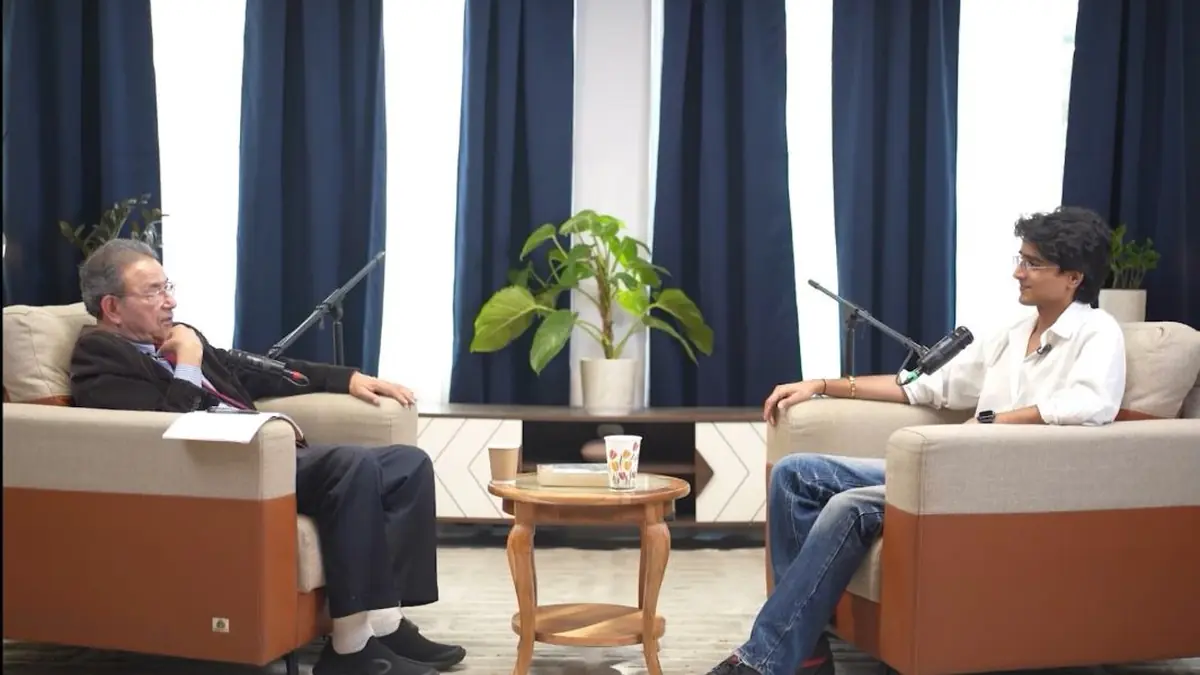
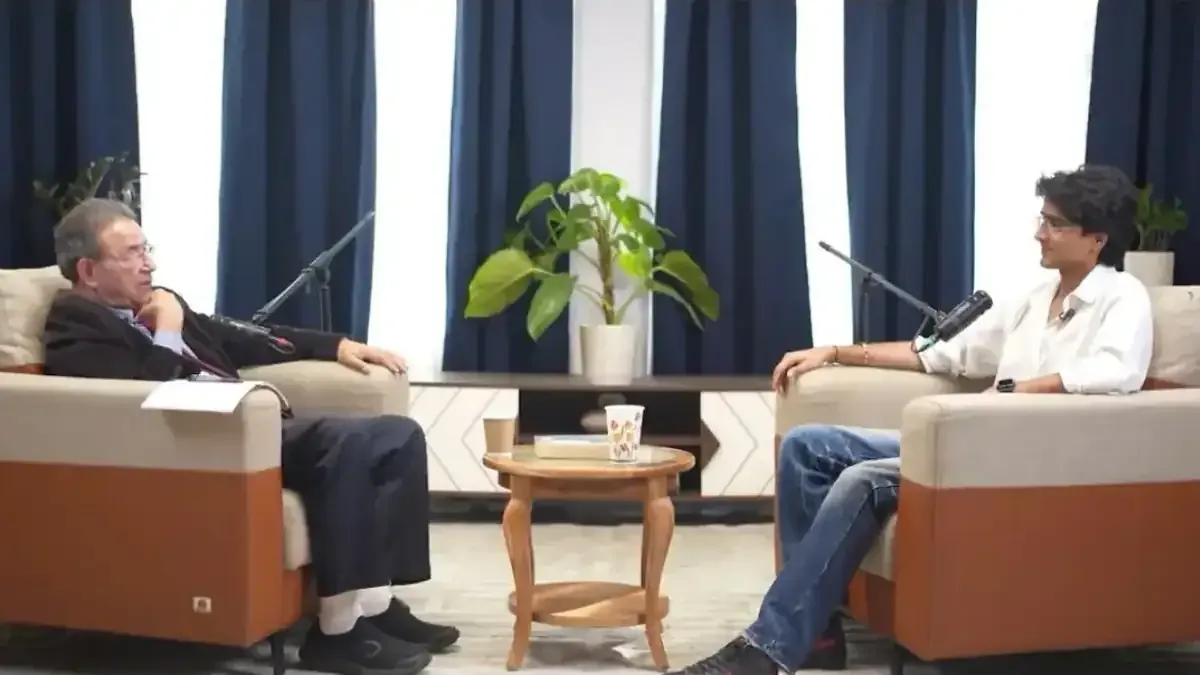
Videography: new landscape-only hero and card (podcast, studio interview, documentary stills, testimonials), no vertical reels

diff --git a/index.html b/index.html
@@ -2604,7 +2604,7 @@ CASES.photobook={"title": "Photography portfolio", "tag": "Fashion weeks, test s
 CASES['designing-happiness']={"title": "Designing Happiness", "link": ["Watch the film", "https://drive.google.com/drive/folders/1HUDaa_hplzb87bE85riKcMQJgDsVWbil?usp=sharing"], "tag": "After nearly losing his life in an accident, a successful architect gives up the chase for wealth to design something far more important: a calm, joyful mind.", "kicker": "The Architecture of Joy · Documentary, 21 min, 2026", "meta": [["Format", "Character-driven documentary, 21 min"], ["Sponsor", "JoyScore Inc."], ["Shot in", "New Delhi and Long Beach, California"], ["Director", "Aaryan Sharma, NID graduation film"], ["My role", "Cinematographer and creative collaborator: concept and story structure"]], "hero": {"img": "assets/doc/hero.webp", "h": 901, "alt": "Dr. J mid-sentence during the studio interview, gesturing with one hand beside a warm lamp", "label": "Designing Happiness: the full documentary", "href": "https://drive.google.com/drive/folders/1HUDaa_hplzb87bE85riKcMQJgDsVWbil?usp=sharing"}, "sections": [["Overview", ["Designing Happiness follows Dr. J, an architect, university educator and the founder of the wellbeing platform JoyScore, as he revisits the experiences that reshaped his idea of happiness.", "In a time of constant connection, hustle and burnout, the film asks a simple question: can inner peace and joy be understood, practised and designed into daily life?"]], ["The subject", ["Dr. J trained as an architect in Delhi and was shaped by conversations with the futurist Buckminster Fuller. He built a life around structure and ambition until a near-fatal motorcycle accident forced him to reorder everything.", "What came out of it was a philosophy and a system: the Mind-Body-Life triad, which turns mindfulness into simple 30-second daily habits, and a pledge to give 51% of his company to charities including Akshaya Patra, Precious Lamb and the Long Beach Rescue Mission."]], ["The approach", ["Instead of a birth-to-present biography, the film is built on five acts, organised by emotional turning points rather than dates. Every interview question and every planned shot was mapped to one of them before filming began.", "Dr. J is a practised public speaker with polished answers, so the questions were written to get past them: “If we remove all titles, achievements and roles, who is Dr. J at his core?” and “What if someone has only 8 hours left in their life?”"]], ["The shoot", ["In Delhi a small crew covered a night arrival at the airport, a quiet 4 AM walk for roadside chai, a long studio interview and podcast, and the first in-person reunion lunch with his India team after eight years of working remotely. The California chapter, with his home, koi pond and birds, was directed remotely.", "Three Sony cameras did different jobs: a handheld Alpha 6700 for verité moments, an Alpha 7C with fast primes for intimate portraits, and a locked-off Alpha 7 IV as the safe master angle, with wireless lavalier mics on every speaker."]], ["Edit and finish", ["A 30-minute assembly was cut down to a tight five-act film, letting go of nearly ten minutes of conversation that was fun but did not serve the story.", "The Delhi audio was cleaned gently to keep its street texture, while California got a calm soundscape of water and birds, with the score ducked under every spoken line. The grade matched three cameras, then gave Delhi warm, earthy dawn tones and California clean coastal blues and greens."]]], "featuresTitle": "The five-act spine", "features": [["I. The modern malady and the architect", "Everyday stress and disconnection, Dr. J’s childlike curiosity, his architecture years and meeting Buckminster Fuller."], ["II. The turning point and the 51% pledge", "The accident, waking up in hospital, and the decision to give 51% of JoyScore to charitable causes."], ["III. The return to Delhi", "Landing at the airport, “left with nothing, returned with everything”, and a quiet 4 AM walk for chai."], ["IV. The team", "The reunion lunch after eight remote years, the team’s stories, and the ideas behind the Mind-Body-Life triad."], ["V. The living sandbox", "His California sanctuary, the koi pond, his birds, and a closing thought on treating life as a gift."]], "extra": "<section class=\"case-boards\"><h2>Stills from the film</h2><p>Two chapters of the same story: warm Delhi mornings and a calm California home.</p><div class=\"case-pages\"><figure><img src=\"assets/doc/still-beach.webp\" width=\"1200\" height=\"677\" alt=\"Dr. J in a white shirt on the Long Beach shoreline at golden hour\" loading=\"lazy\" decoding=\"async\"></figure><figure><img src=\"assets/doc/still-window.webp\" width=\"1200\" height=\"675\" alt=\"Dr. J seen from behind at a hotel window looking out over Delhi at dawn\" loading=\"lazy\" decoding=\"async\"></figure><figure><img src=\"assets/doc/still-koi.webp\" width=\"1200\" height=\"677\" alt=\"A pale stone in Dr. J’s koi pond with fish circling it\" loading=\"lazy\" decoding=\"async\"></figure><figure><img src=\"assets/doc/still-garden.webp\" width=\"1200\" height=\"676\" alt=\"Dr. J among tropical plants in his California garden\" loading=\"lazy\" decoding=\"async\"></figure><figure><img src=\"assets/doc/still-studio.webp\" width=\"1200\" height=\"674\" alt=\"Wide shot of the studio interview set in Delhi, with a warm lamp and shelves\" loading=\"lazy\" decoding=\"async\"></figure><figure><img src=\"assets/doc/still-study.webp\" width=\"1200\" height=\"678\" alt=\"Dr. J looking down, deep in thought, at home\" loading=\"lazy\" decoding=\"async\"></figure><figure><img src=\"assets/doc/still-patio.webp\" width=\"1200\" height=\"676\" alt=\"Dr. J writing at a patio table under an umbrella\" loading=\"lazy\" decoding=\"async\"></figure><figure><img src=\"assets/doc/still-slippers.webp\" width=\"1200\" height=\"677\" alt=\"Bare feet stepping into white hotel slippers on a wooden floor\" loading=\"lazy\" decoding=\"async\"></figure></div></section><section class=\"case-boards\"><h2>Behind the scenes</h2><p>Four days in Delhi with a small crew, three cameras and a very early alarm.</p><div class=\"case-pages\"><figure><img src=\"assets/doc/bts-reunion.webp\" width=\"1200\" height=\"848\" alt=\"Dr. J cutting a cake with the JoyScore India team at the reunion lunch\" loading=\"lazy\" decoding=\"async\"><figcaption>The first in-person lunch with the India team in eight years</figcaption></figure><figure><img src=\"assets/doc/bts-team.webp\" width=\"1200\" height=\"801\" alt=\"Dr. J with the whole JoyScore India team, posing for a group photo\" loading=\"lazy\" decoding=\"async\"><figcaption>The JoyScore India team</figcaption></figure><figure><img src=\"assets/doc/bts-twocam.webp\" width=\"1200\" height=\"848\" alt=\"Two-camera studio setup for the sit-down interview\" loading=\"lazy\" decoding=\"async\"><figcaption>The studio interview, set up for two cameras</figcaption></figure><figure><img src=\"assets/doc/bts-lav.webp\" width=\"1200\" height=\"848\" alt=\"Fitting a lavalier microphone on Dr. J before a take\" loading=\"lazy\" decoding=\"async\"><figcaption>Mic check before the deep-dive interview</figcaption></figure><figure><img src=\"assets/doc/bts-follow.webp\" width=\"1200\" height=\"847\" alt=\"Filming Dr. J handheld as he walks through a doorway\" loading=\"lazy\" decoding=\"async\"><figcaption>Following Dr. J handheld, verité style</figcaption></figure><figure><img src=\"assets/doc/bts-lunch.webp\" width=\"1200\" height=\"752\" alt=\"The team around the restaurant table during the reunion lunch\" loading=\"lazy\" decoding=\"async\"><figcaption>Reunion lunch, Delhi</figcaption></figure></div></section>"}; /* project 9: documentary */
 CASES.visual={"title": "Visual design compilation", "tag": "Ads, social campaigns, emailers, watchfaces, branding, print and illustration, gathered in one place.", "kicker": "Visual communication: campaigns, branding, print and illustration", "meta": [["Project", "Visual design compilation"], ["Category", "Visual communication"], ["Genres", "Ads, social media, emailers, watchfaces, branding, print, illustration"], ["Designer", "Siya Giriwar"]], "hero":{"img":"assets/visual/hero-anim.webp","still":"assets/visual/hero-still.webp","h":920,"alt":"Slideshow of the compilation’s work: Spectrum festival posters, Bloom crochet branding, the La Mondé tabloid, a botanical tote bag print, Bean To Brew coffee branding and Rad’s Food Corner branding"}, "sections": [["Overview", ["A compilation of visual design across ads, social media, email, watchfaces, branding, print and illustration. It brings together campaign work for Layers.shop, a travel company and a 3D fashion course, alongside brand identities, printed pieces and illustrated storytelling.", "The pages run in order by theme, so you can scroll from smartwatch ads and emailers through travel and course campaigns, into the Phad storybook, brand identities, print design and posters."]], ["Working across formats", ["Each body of work has its own voice. Layers is bold and electric blue, the travel posts are warm and photographic, and the print and branding pieces lean on pattern, type and texture. The aim in every case is a clear idea, a strong first read and a system that holds across many pieces."]]], "featuresTitle": "What is inside", "features": [["Layers.shop", "Social posts and campaigns, smartwatch ads, emailers, story thumbnails, email signatures, app nudges and watchfaces."], ["Travdor Journeys", "A social media series for a travel company: bucket-list posts, destination guides and itinerary carousels."], ["Learn 3D Fashion", "Ads and layouts for a 3D fashion and AI design course, plus brand-building and passive-income campaigns."], ["Phad storybook", "A Phad painting storybook publication: the folk-art scroll, framed scenes and the book layout."], ["Branding", "BRCH Brioche Sandos, Rad’s Food Corner, Bean To Brew, Bloom, Techeonn and a Yonex logo redesign."], ["Print and posters", "Banners for NIFT at Dilli Haat, wedding save-the-dates, a tabloid spread, typographic and event posters, scarves and tote prints."]], "boardsTitle": "The full compilation", "boardsSub": "Forty-eight pages, from Layers ads to branding, print and posters.", "boards": [["assets/visual/vc-02.webp", 900, "Layers.shop Instagram profile with story highlights and a grid of posts"], ["assets/visual/vc-03.webp", 900, "Ten blue, black and white social posts for the Bold Quests series, with portrait cards and bold typography"], ["assets/visual/vc-04.webp", 900, "Women of Layers series: team portraits with short quotes on blue and white post templates"], ["assets/visual/vc-05.webp", 900, "Photo-collage posts celebrating the Layers team, with torn-paper frames and handwritten captions"], ["assets/visual/vc-06.webp", 900, "Wrapped 2025 and Agent of Chaos posts in electric blue, including a chat-style 8pm to 12am post"], ["assets/visual/vc-07.webp", 900, "Eight Anarc smartwatch ads in four layouts, each with a ₹3999 offer on white, blue and purple backgrounds"], ["assets/visual/vc-08.webp", 900, "A second set of Anarc smartwatch ads in square and portrait formats with price callouts"], ["assets/visual/vc-09.webp", 900, "Dark Anarc smartwatch ads with the lines Never, Now and The moment you wear it"], ["assets/visual/vc-10.webp", 900, "Dark New Year offer ads for the smartwatch with 50% off and free strap callouts"], ["assets/visual/vc-11.webp", 900, "Four long-form emailers announcing a bold sale, with a watch hero, comparison table and call to action"], ["assets/visual/vc-12.webp", 900, "Six dark blue thumbnails reading Welcome to Making Tech Fun Again"], ["assets/visual/vc-13.webp", 900, "A grid of colourful smartwatch watchfaces next to always-on display versions"], ["assets/visual/vc-14.webp", 900, "More smartwatch watchfaces in purple, neon and gradient styles"], ["assets/visual/vc-15.webp", 900, "Email signatures in light and dark, and two app nudges offering a complimentary gift"], ["assets/visual/vc-16.webp", 900, "Four smartwatch feature banners: Your vibe, Your face; track every hour clearly; ask, speak, know; and every detail"], ["assets/visual/vc-17.webp", 900, "Travdor Journeys Instagram profile with highlights for Thailand, Dubai, Malaysia and Sri Lanka"], ["assets/visual/vc-18.webp", 900, "Travel social posts with yellow headlines on torn-paper and photo backgrounds, including bucket-list and short-trip guides"], ["assets/visual/vc-19.webp", 900, "Teal travel carousels with destination photos, trip tips and itinerary steps"], ["assets/visual/vc-20.webp", 900, "Travel posts about packing and Sri Lanka, with bold yellow type over destination photography"], ["assets/visual/vc-21.webp", 900, "Night-sky and jungle travel carousels numbered 01 to 04 in dark teal and gold"], ["assets/visual/vc-22.webp", 900, "Learn 3D Fashion website hero: Master 3D Fashion and AI Design, 2026"], ["assets/visual/vc-23.webp", 900, "Four Learn 3D Fashion course ads in black, white and blue"], ["assets/visual/vc-24.webp", 900, "Build Your Brand ad series with bold type on terracotta, black and cream"], ["assets/visual/vc-25.webp", 900, "More Build Your Brand ads in orange, blue and lilac colour blocks"], ["assets/visual/vc-26.webp", 900, "Learn 3D Fashion ad layouts with editorial photography"], ["assets/visual/vc-27.webp", 900, "Turn your expertise into passive income: three cream and terracotta ads"], ["assets/visual/vc-28.webp", 900, "A long Phad painting scroll showing a folktale across many framed scenes"], ["assets/visual/vc-29.webp", 900, "Framed scenes from the Phad painting storybook, with royal courts and trees"], ["assets/visual/vc-30.webp", 900, "More Phad scenes arranged into a storybook layout with a long panoramic spread"], ["assets/visual/vc-31.webp", 900, "Illustration of warrior characters against an orange swirl background"], ["assets/visual/vc-32.webp", 900, "Fashion research and a flats-and-fabric board with garments on a yellow ground"], ["assets/visual/vc-33.webp", 900, "BRCH Brioche Sandos branding: logo variations, colour palette and paper bag packaging"], ["assets/visual/vc-34.webp", 900, "BRCH packaging dielines, pattern and a pair of mascot illustrations"], ["assets/visual/vc-35.webp", 900, "Rad's Food Corner branding: logos, patterns, menus and takeaway packaging"], ["assets/visual/vc-36.webp", 900, "Bean To Brew coffee shop branding: logo, palette, type pairing and cup and coaster mockups"], ["assets/visual/vc-37.webp", 900, "Five illustrated fashion looks in green and white on a dark green background"], ["assets/visual/vc-38.webp", 900, "Starborn collection board: moodboard, illustrated scene and flats"], ["assets/visual/vc-39.webp", 900, "Starborn scarf pattern, illustrated looks and supporting print details"], ["assets/visual/vc-40.webp", 900, "Print design: printed scarves, patterned fabric swatches and a cap"], ["assets/visual/vc-41.webp", 900, "Print design: a botanical pattern in blue and orange on a tote bag and cushions"], ["assets/visual/vc-42.webp", 900, "Banners for NIFT at Dilli Haat in red and cream with a repeating motif"], ["assets/visual/vc-43.webp", 900, "Save-the-date wedding invite with orange floral illustration, envelope and phone mockup"], ["assets/visual/vc-44.webp", 900, "La Mondé tabloid newspaper design with a Rockabilly Rumble cover"], ["assets/visual/vc-45.webp", 900, "Univers typography poster in black and cream with a large letter S and alphabet"], ["assets/visual/vc-46.webp", 900, "Bloom crochet branding: logo, tags, packaging and tote bag in green and orange"], ["assets/visual/vc-47.webp", 900, "Yonex logo redesign with a badminton player, apparel and packaging mockups"], ["assets/visual/vc-48.webp", 900, "Techeonn tech brand logo on cards, signage and a dark merchandise shot"], ["assets/visual/vc-49.webp", 900, "Event posters in orange and teal for chess, a photo exhibition, pixel art, bangarang and a hackathon"]]};
 /* case study for project 12 (videography) */
-CASES.videography={"title": "Videography", "tag": "Reels, podcasts, interviews and documentaries for brands and film school, with a link to watch each one.", "kicker": "Lens and motion: reels, podcasts, interviews and documentaries", "meta": [["Project", "Videography reel"], ["Category", "Lens and motion"], ["Formats", "Podcast, interview, testimonials, reels, documentary, mockumentary"], ["For", "JoyScore, Two Forking Good × Draavin Canteen, Layers, Play Haus, NIFT New Delhi"]], "hero": {"img": "assets/videography/hero.webp", "still": "assets/videography/hero-still.webp", "h": 900, "alt": "Showreel of stills: the JoyScore podcast and interview, an Onam reel with Chef Ruchira Hoon, and the Haute Couture documentary and teaser"}, "sections": [["Overview", ["A reel of videography across brands, a podcast studio and film school. Podcast and interview coverage with Dr. Joy for JoyScore, an Onam story with Chef Ruchira Hoon for Two Forking Good × Draavin Canteen, a brand video for Layers, sports reels for Play Haus, and two films made at NIFT New Delhi.", "The pages below show the work and the before-and-after colour grades for the JoyScore interviews. The Haute Couture documentary and teaser and the Onam reel play right here, and every film, reel and post is linked under Watch and follow, so you can see each piece the way it was published."]]], "featuresTitle": "What is inside", "features": [["JoyScore", "A podcast conversation with Dr. Joy hosted by Prateek, a teaser, an interview shot in a second studio setup, employee testimonials and short reels."], ["Two Forking Good × Draavin Canteen", "Icons of Onam with Chef Ruchira Hoon, plus photos and video from the Onam Sadhya table at Draavin Canteen."], ["Layers", "A brand video for the Anarc smartwatch redesign in the colours of the year."], ["Play Haus", "Short reels for a Delhi sporting club with pickleball, turf and a gel blaster arena."], ["Haute Couture", "A documentary on fashion design at NIFT New Delhi, following students and faculty through the studio. Edited by Siya, with art direction by Siya and Aastha Deep."], ["The Mango Heist", "A mockumentary directed, shot and animated by Siya, with the script and sound by Siya and Aastha Deep."]], "extra": "<section class=\"case-sec\"><h2>Watch here</h2><div class=\"vfilms\"><figure class=\"vfilm wide\"><video controls playsinline preload=\"none\" poster=\"assets/videography/poster-hc.webp\" width=\"1280\" height=\"720\" aria-label=\"Haute Couture, documentary\"><source src=\"assets/videography/haute-couture.mp4\" type=\"video/mp4\"></video><figcaption><b>Haute Couture, documentary</b><span>5 min 30 s · NIFT New Delhi</span></figcaption></figure><figure class=\"vfilm\"><video controls playsinline preload=\"none\" poster=\"assets/videography/poster-teaser.webp\" width=\"1280\" height=\"720\" aria-label=\"Haute Couture, teaser\"><source src=\"assets/videography/teaser.mp4\" type=\"video/mp4\"></video><figcaption><b>Haute Couture, teaser</b><span>41 s</span></figcaption></figure><figure class=\"vfilm tall\"><video controls playsinline preload=\"none\" poster=\"assets/videography/poster-onam.webp\" width=\"720\" height=\"1280\" aria-label=\"Icons of Onam with Chef Ruchira Hoon\"><source src=\"assets/videography/onam-reel.mp4\" type=\"video/mp4\"></video><figcaption><b>Icons of Onam with Chef Ruchira Hoon</b><span>1 min · Two Forking Good × Draavin Canteen</span></figcaption></figure></div></section><section class=\"case-sec\"><h2>Watch and follow</h2><div class=\"vgroups\"><div class=\"vgroup\"><h3>JoyScore</h3><p class=\"vsub\">Podcast and interview with Dr. Joy, hosted by Prateek</p><div class=\"tracks\"><a class=\"track\" href=\"https://www.youtube.com/watch?v=KiM6xgwTIks&amp;list=PLVLEOZYPl-iuAG-uZPvXb_NonUPldaBll&amp;index=8\" target=\"_blank\" rel=\"noopener noreferrer\" aria-label=\"Podcast with Dr. Joy, YouTube (opens in a new tab)\"><span class=\"tk-ico\" aria-hidden=\"true\"><svg viewBox=\"0 0 16 16\"><path d=\"M3 1.5v13l11-6.5z\" fill=\"currentColor\"/></svg></span><span class=\"tk-txt\"><b>Podcast with Dr. Joy</b><small>YouTube</small></span><span class=\"tk-go\" aria-hidden=\"true\">↗</span></a><a class=\"track\" href=\"https://www.youtube.com/watch?v=lITsF-huEsA&amp;list=PLVLEOZYPl-iuAG-uZPvXb_NonUPldaBll&amp;index=9\" target=\"_blank\" rel=\"noopener noreferrer\" aria-label=\"Podcast teaser, YouTube (opens in a new tab)\"><span class=\"tk-ico\" aria-hidden=\"true\"><svg viewBox=\"0 0 16 16\"><path d=\"M3 1.5v13l11-6.5z\" fill=\"currentColor\"/></svg></span><span class=\"tk-txt\"><b>Podcast teaser</b><small>YouTube</small></span><span class=\"tk-go\" aria-hidden=\"true\">↗</span></a><a class=\"track\" href=\"https://drive.google.com/drive/folders/1DxY7gXc6x68NRU-7Uiy8ae6LzuVBo9ZE\" target=\"_blank\" rel=\"noopener noreferrer\" aria-label=\"Interview with Dr. J, Google Drive folder (opens in a new tab)\"><span class=\"tk-ico\" aria-hidden=\"true\"><svg viewBox=\"0 0 16 16\"><path d=\"M3 1.5v13l11-6.5z\" fill=\"currentColor\"/></svg></span><span class=\"tk-txt\"><b>Interview with Dr. J</b><small>Google Drive folder</small></span><span class=\"tk-go\" aria-hidden=\"true\">↗</span></a><a class=\"track\" href=\"https://www.instagram.com/p/DadLQvpBiWl/\" target=\"_blank\" rel=\"noopener noreferrer\" aria-label=\"JoyScore reel 1, Instagram reel (opens in a new tab)\"><span class=\"tk-ico\" aria-hidden=\"true\"><svg viewBox=\"0 0 16 16\"><path d=\"M3 1.5v13l11-6.5z\" fill=\"currentColor\"/></svg></span><span class=\"tk-txt\"><b>JoyScore reel 1</b><small>Instagram reel</small></span><span class=\"tk-go\" aria-hidden=\"true\">↗</span></a><a class=\"track\" href=\"https://www.instagram.com/p/DZq8-Frklqu/\" target=\"_blank\" rel=\"noopener noreferrer\" aria-label=\"JoyScore reel 2, Instagram reel (opens in a new tab)\"><span class=\"tk-ico\" aria-hidden=\"true\"><svg viewBox=\"0 0 16 16\"><path d=\"M3 1.5v13l11-6.5z\" fill=\"currentColor\"/></svg></span><span class=\"tk-txt\"><b>JoyScore reel 2</b><small>Instagram reel</small></span><span class=\"tk-go\" aria-hidden=\"true\">↗</span></a><a class=\"track\" href=\"https://www.instagram.com/p/DaReBfwDxNA/\" target=\"_blank\" rel=\"noopener noreferrer\" aria-label=\"JoyScore reel 3, Instagram reel (opens in a new tab)\"><span class=\"tk-ico\" aria-hidden=\"true\"><svg viewBox=\"0 0 16 16\"><path d=\"M3 1.5v13l11-6.5z\" fill=\"currentColor\"/></svg></span><span class=\"tk-txt\"><b>JoyScore reel 3</b><small>Instagram reel</small></span><span class=\"tk-go\" aria-hidden=\"true\">↗</span></a><a class=\"track\" href=\"https://www.instagram.com/patrickposts_here/\" target=\"_blank\" rel=\"noopener noreferrer\" aria-label=\"Host: Prateek, Instagram · @patrickposts_here (opens in a new tab)\"><span class=\"tk-ico\" aria-hidden=\"true\"><svg viewBox=\"0 0 16 16\"><path d=\"M3 1.5v13l11-6.5z\" fill=\"currentColor\"/></svg></span><span class=\"tk-txt\"><b>Host: Prateek</b><small>Instagram · @patrickposts_here</small></span><span class=\"tk-go\" aria-hidden=\"true\">↗</span></a><a class=\"track\" href=\"https://www.instagram.com/dr.joy_official/\" target=\"_blank\" rel=\"noopener noreferrer\" aria-label=\"Speaker: Dr. Joy, Instagram · @dr.joy_official (opens in a new tab)\"><span class=\"tk-ico\" aria-hidden=\"true\"><svg viewBox=\"0 0 16 16\"><path d=\"M3 1.5v13l11-6.5z\" fill=\"currentColor\"/></svg></span><span class=\"tk-txt\"><b>Speaker: Dr. Joy</b><small>Instagram · @dr.joy_official</small></span><span class=\"tk-go\" aria-hidden=\"true\">↗</span></a></div></div><div class=\"vgroup\"><h3>Two Forking Good × Draavin Canteen</h3><p class=\"vsub\">Icons of Onam and the Onam Sadhya</p><div class=\"tracks\"><a class=\"track\" href=\"https://www.instagram.com/p/Dcfq7ZPzVan/\" target=\"_blank\" rel=\"noopener noreferrer\" aria-label=\"Chef Ruchira Hoon, Instagram reel (opens in a new tab)\"><span class=\"tk-ico\" aria-hidden=\"true\"><svg viewBox=\"0 0 16 16\"><path d=\"M3 1.5v13l11-6.5z\" fill=\"currentColor\"/></svg></span><span class=\"tk-txt\"><b>Chef Ruchira Hoon</b><small>Instagram reel</small></span><span class=\"tk-go\" aria-hidden=\"true\">↗</span></a><a class=\"track\" href=\"https://www.instagram.com/p/DcdQBZAjixl/?img_index=1\" target=\"_blank\" rel=\"noopener noreferrer\" aria-label=\"Onam post, Instagram carousel (opens in a new tab)\"><span class=\"tk-ico\" aria-hidden=\"true\"><svg viewBox=\"0 0 16 16\"><path d=\"M3 1.5v13l11-6.5z\" fill=\"currentColor\"/></svg></span><span class=\"tk-txt\"><b>Onam post</b><small>Instagram carousel</small></span><span class=\"tk-go\" aria-hidden=\"true\">↗</span></a></div></div><div class=\"vgroup\"><h3>Layers</h3><p class=\"vsub\">Brand video for the Anarc smartwatch redesign</p><div class=\"tracks\"><a class=\"track\" href=\"https://www.instagram.com/p/DTsrZhAk76U/\" target=\"_blank\" rel=\"noopener noreferrer\" aria-label=\"Layers shoot, Instagram reel (opens in a new tab)\"><span class=\"tk-ico\" aria-hidden=\"true\"><svg viewBox=\"0 0 16 16\"><path d=\"M3 1.5v13l11-6.5z\" fill=\"currentColor\"/></svg></span><span class=\"tk-txt\"><b>Layers shoot</b><small>Instagram reel</small></span><span class=\"tk-go\" aria-hidden=\"true\">↗</span></a></div></div><div class=\"vgroup\"><h3>Play Haus</h3><p class=\"vsub\">Reels for a Delhi sporting club</p><div class=\"tracks\"><a class=\"track\" href=\"https://www.instagram.com/p/DVnqTsOgWn4/\" target=\"_blank\" rel=\"noopener noreferrer\" aria-label=\"Play Haus reel 1, Instagram reel (opens in a new tab)\"><span class=\"tk-ico\" aria-hidden=\"true\"><svg viewBox=\"0 0 16 16\"><path d=\"M3 1.5v13l11-6.5z\" fill=\"currentColor\"/></svg></span><span class=\"tk-txt\"><b>Play Haus reel 1</b><small>Instagram reel</small></span><span class=\"tk-go\" aria-hidden=\"true\">↗</span></a><a class=\"track\" href=\"https://www.instagram.com/p/DU2cAlxkSEF/\" target=\"_blank\" rel=\"noopener noreferrer\" aria-label=\"Play Haus reel 2, Instagram reel (opens in a new tab)\"><span class=\"tk-ico\" aria-hidden=\"true\"><svg viewBox=\"0 0 16 16\"><path d=\"M3 1.5v13l11-6.5z\" fill=\"currentColor\"/></svg></span><span class=\"tk-txt\"><b>Play Haus reel 2</b><small>Instagram reel</small></span><span class=\"tk-go\" aria-hidden=\"true\">↗</span></a></div></div><div class=\"vgroup\"><h3>College projects</h3><p class=\"vsub\">NIFT New Delhi</p><div class=\"tracks\"><a class=\"track\" href=\"https://drive.google.com/drive/folders/1gimLoRdNh8Y0HIjJt5tAYYkg_PoABn8S\" target=\"_blank\" rel=\"noopener noreferrer\" aria-label=\"Haute Couture, documentary, Google Drive folder (opens in a new tab)\"><span class=\"tk-ico\" aria-hidden=\"true\"><svg viewBox=\"0 0 16 16\"><path d=\"M3 1.5v13l11-6.5z\" fill=\"currentColor\"/></svg></span><span class=\"tk-txt\"><b>Haute Couture, documentary</b><small>Google Drive folder</small></span><span class=\"tk-go\" aria-hidden=\"true\">↗</span></a><a class=\"track\" href=\"https://www.behance.net/gallery/224786475/THE-MANGO-HEIST-Mockumentary\" target=\"_blank\" rel=\"noopener noreferrer\" aria-label=\"The Mango Heist, mockumentary, Behance case study (opens in a new tab)\"><span class=\"tk-ico\" aria-hidden=\"true\"><svg viewBox=\"0 0 16 16\"><path d=\"M3 1.5v13l11-6.5z\" fill=\"currentColor\"/></svg></span><span class=\"tk-txt\"><b>The Mango Heist, mockumentary</b><small>Behance case study</small></span><span class=\"tk-go\" aria-hidden=\"true\">↗</span></a></div></div></div></section>", "boardsTitle": "The reel, page by page", "boardsSub": "Twenty-two pages: podcast and interview stills, colour grades, Onam, brand reels and the college films.", "boards": [["assets/videography/vg-01.webp", 900, "JoyScore Instagram profile, the client for the podcast, interview and reels"], ["assets/videography/vg-02.webp", 900, "Page of links to the JoyScore reels, interview, teaser and podcast, with the host Prateek and the speaker Dr. Joy"], ["assets/videography/vg-03.webp", 900, "Podcast set with Dr. Joy and the host seated in armchairs facing each other, microphones in front and a plant between them"], ["assets/videography/vg-04.webp", 900, "Dr. J interviewed in a second studio setup, with a warm lamp, shelves and plants"], ["assets/videography/vg-05.webp", 900, "Four employee testimonials of JoyScore staff, each shot outdoors in a park"], ["assets/videography/vg-06.webp", 900, "Colour grade comparison of the Dr. Joy interviews in two studio setups, ungraded on the left and graded on the right"], ["assets/videography/vg-07.webp", 900, "Colour grade comparison of outdoor interview frames, ungraded on the left and graded on the right"], ["assets/videography/vg-08.webp", 900, "Colour grade comparison of a testimonial with a name title and a close portrait by a window, before and after"], ["assets/videography/vg-09.webp", 900, "Two Forking Good Instagram profile, the client for the Onam content"], ["assets/videography/vg-10.webp", 900, "Chef Ruchira Hoon interview reel and the Icons of Onam posts with Draavin Canteen and Two Forking Good branding"], ["assets/videography/vg-11.webp", 900, "Onam Sadhya carousels: Banana Leaves and Vegetables, chopped fresh for the Sadhya"], ["assets/videography/vg-12.webp", 900, "Four Onam photographs: menu cards on banana leaves, serving pots and a laid Sadhya table"], ["assets/videography/vg-13.webp", 900, "Four Onam detail photographs: a name card, jasmine garlands and flower rangoli"], ["assets/videography/vg-14.webp", 900, "A Sadhya table in use, jasmine in a steel bowl and a Draavin Canteen uniform detail"], ["assets/videography/vg-15.webp", 900, "Layers Instagram profile, the client for the brand video"], ["assets/videography/vg-16.webp", 900, "Layers shoot reel: We Redesigned ANARC in the Colors of the Year"], ["assets/videography/vg-17.webp", 900, "Play Haus sporting club Instagram profile, the client for the sports reels"], ["assets/videography/vg-18.webp", 900, "Two Play Haus reels shot on the turf"], ["assets/videography/vg-19.webp", 900, "NIFT New Delhi Instagram profile, for the college projects"], ["assets/videography/vg-20.webp", 900, "Haute Couture documentary stills: students at sewing machines, interviews with students and faculty, and close shots"], ["assets/videography/vg-21.webp", 900, "Haute Couture b-roll: stitching, sewing machine detail, mannequins, sketching on a tablet, tape measures and pattern making"], ["assets/videography/vg-22.webp", 900, "The Mango Heist mockumentary stills and end credits"]], "link": ["Watch the podcast", "https://www.youtube.com/watch?v=KiM6xgwTIks&list=PLVLEOZYPl-iuAG-uZPvXb_NonUPldaBll&index=8"], "barLink": "Watch the podcast"};
+CASES.videography={"title": "Videography", "tag": "Reels, podcasts, interviews and documentaries for brands and film school, with a link to watch each one.", "kicker": "Lens and motion: reels, podcasts, interviews and documentaries", "meta": [["Project", "Videography reel"], ["Category", "Lens and motion"], ["Formats", "Podcast, interview, testimonials, reels, documentary, mockumentary"], ["For", "JoyScore, Two Forking Good × Draavin Canteen, Layers, Play Haus, NIFT New Delhi"]], "hero": {"img": "assets/videography/hero.webp", "still": "assets/videography/hero-still.webp", "h": 900, "alt": "Slideshow of landscape frames: the JoyScore podcast set, Dr. J’s studio interview, the Designing Happiness documentary on the beach, at a window and in the garden, and employee testimonials"}, "sections": [["Overview", ["A reel of videography across brands, a podcast studio and film school. Podcast and interview coverage with Dr. Joy for JoyScore, an Onam story with Chef Ruchira Hoon for Two Forking Good × Draavin Canteen, a brand video for Layers, sports reels for Play Haus, and two films made at NIFT New Delhi.", "The pages below show the work and the before-and-after colour grades for the JoyScore interviews. The Haute Couture documentary and teaser and the Onam reel play right here, and every film, reel and post is linked under Watch and follow, so you can see each piece the way it was published."]]], "featuresTitle": "What is inside", "features": [["JoyScore", "A podcast conversation with Dr. Joy hosted by Prateek, a teaser, an interview shot in a second studio setup, employee testimonials and short reels."], ["Two Forking Good × Draavin Canteen", "Icons of Onam with Chef Ruchira Hoon, plus photos and video from the Onam Sadhya table at Draavin Canteen."], ["Layers", "A brand video for the Anarc smartwatch redesign in the colours of the year."], ["Play Haus", "Short reels for a Delhi sporting club with pickleball, turf and a gel blaster arena."], ["Haute Couture", "A documentary on fashion design at NIFT New Delhi, following students and faculty through the studio. Edited by Siya, with art direction by Siya and Aastha Deep."], ["The Mango Heist", "A mockumentary directed, shot and animated by Siya, with the script and sound by Siya and Aastha Deep."]], "extra": "<section class=\"case-sec\"><h2>Watch here</h2><div class=\"vfilms\"><figure class=\"vfilm wide\"><video controls playsinline preload=\"none\" poster=\"assets/videography/poster-hc.webp\" width=\"1280\" height=\"720\" aria-label=\"Haute Couture, documentary\"><source src=\"assets/videography/haute-couture.mp4\" type=\"video/mp4\"></video><figcaption><b>Haute Couture, documentary</b><span>5 min 30 s · NIFT New Delhi</span></figcaption></figure><figure class=\"vfilm\"><video controls playsinline preload=\"none\" poster=\"assets/videography/poster-teaser.webp\" width=\"1280\" height=\"720\" aria-label=\"Haute Couture, teaser\"><source src=\"assets/videography/teaser.mp4\" type=\"video/mp4\"></video><figcaption><b>Haute Couture, teaser</b><span>41 s</span></figcaption></figure><figure class=\"vfilm tall\"><video controls playsinline preload=\"none\" poster=\"assets/videography/poster-onam.webp\" width=\"720\" height=\"1280\" aria-label=\"Icons of Onam with Chef Ruchira Hoon\"><source src=\"assets/videography/onam-reel.mp4\" type=\"video/mp4\"></video><figcaption><b>Icons of Onam with Chef Ruchira Hoon</b><span>1 min · Two Forking Good × Draavin Canteen</span></figcaption></figure></div></section><section class=\"case-sec\"><h2>Watch and follow</h2><div class=\"vgroups\"><div class=\"vgroup\"><h3>JoyScore</h3><p class=\"vsub\">Podcast and interview with Dr. Joy, hosted by Prateek</p><div class=\"tracks\"><a class=\"track\" href=\"https://www.youtube.com/watch?v=KiM6xgwTIks&amp;list=PLVLEOZYPl-iuAG-uZPvXb_NonUPldaBll&amp;index=8\" target=\"_blank\" rel=\"noopener noreferrer\" aria-label=\"Podcast with Dr. Joy, YouTube (opens in a new tab)\"><span class=\"tk-ico\" aria-hidden=\"true\"><svg viewBox=\"0 0 16 16\"><path d=\"M3 1.5v13l11-6.5z\" fill=\"currentColor\"/></svg></span><span class=\"tk-txt\"><b>Podcast with Dr. Joy</b><small>YouTube</small></span><span class=\"tk-go\" aria-hidden=\"true\">↗</span></a><a class=\"track\" href=\"https://www.youtube.com/watch?v=lITsF-huEsA&amp;list=PLVLEOZYPl-iuAG-uZPvXb_NonUPldaBll&amp;index=9\" target=\"_blank\" rel=\"noopener noreferrer\" aria-label=\"Podcast teaser, YouTube (opens in a new tab)\"><span class=\"tk-ico\" aria-hidden=\"true\"><svg viewBox=\"0 0 16 16\"><path d=\"M3 1.5v13l11-6.5z\" fill=\"currentColor\"/></svg></span><span class=\"tk-txt\"><b>Podcast teaser</b><small>YouTube</small></span><span class=\"tk-go\" aria-hidden=\"true\">↗</span></a><a class=\"track\" href=\"https://drive.google.com/drive/folders/1DxY7gXc6x68NRU-7Uiy8ae6LzuVBo9ZE\" target=\"_blank\" rel=\"noopener noreferrer\" aria-label=\"Interview with Dr. J, Google Drive folder (opens in a new tab)\"><span class=\"tk-ico\" aria-hidden=\"true\"><svg viewBox=\"0 0 16 16\"><path d=\"M3 1.5v13l11-6.5z\" fill=\"currentColor\"/></svg></span><span class=\"tk-txt\"><b>Interview with Dr. J</b><small>Google Drive folder</small></span><span class=\"tk-go\" aria-hidden=\"true\">↗</span></a><a class=\"track\" href=\"https://www.instagram.com/p/DadLQvpBiWl/\" target=\"_blank\" rel=\"noopener noreferrer\" aria-label=\"JoyScore reel 1, Instagram reel (opens in a new tab)\"><span class=\"tk-ico\" aria-hidden=\"true\"><svg viewBox=\"0 0 16 16\"><path d=\"M3 1.5v13l11-6.5z\" fill=\"currentColor\"/></svg></span><span class=\"tk-txt\"><b>JoyScore reel 1</b><small>Instagram reel</small></span><span class=\"tk-go\" aria-hidden=\"true\">↗</span></a><a class=\"track\" href=\"https://www.instagram.com/p/DZq8-Frklqu/\" target=\"_blank\" rel=\"noopener noreferrer\" aria-label=\"JoyScore reel 2, Instagram reel (opens in a new tab)\"><span class=\"tk-ico\" aria-hidden=\"true\"><svg viewBox=\"0 0 16 16\"><path d=\"M3 1.5v13l11-6.5z\" fill=\"currentColor\"/></svg></span><span class=\"tk-txt\"><b>JoyScore reel 2</b><small>Instagram reel</small></span><span class=\"tk-go\" aria-hidden=\"true\">↗</span></a><a class=\"track\" href=\"https://www.instagram.com/p/DaReBfwDxNA/\" target=\"_blank\" rel=\"noopener noreferrer\" aria-label=\"JoyScore reel 3, Instagram reel (opens in a new tab)\"><span class=\"tk-ico\" aria-hidden=\"true\"><svg viewBox=\"0 0 16 16\"><path d=\"M3 1.5v13l11-6.5z\" fill=\"currentColor\"/></svg></span><span class=\"tk-txt\"><b>JoyScore reel 3</b><small>Instagram reel</small></span><span class=\"tk-go\" aria-hidden=\"true\">↗</span></a><a class=\"track\" href=\"https://www.instagram.com/patrickposts_here/\" target=\"_blank\" rel=\"noopener noreferrer\" aria-label=\"Host: Prateek, Instagram · @patrickposts_here (opens in a new tab)\"><span class=\"tk-ico\" aria-hidden=\"true\"><svg viewBox=\"0 0 16 16\"><path d=\"M3 1.5v13l11-6.5z\" fill=\"currentColor\"/></svg></span><span class=\"tk-txt\"><b>Host: Prateek</b><small>Instagram · @patrickposts_here</small></span><span class=\"tk-go\" aria-hidden=\"true\">↗</span></a><a class=\"track\" href=\"https://www.instagram.com/dr.joy_official/\" target=\"_blank\" rel=\"noopener noreferrer\" aria-label=\"Speaker: Dr. Joy, Instagram · @dr.joy_official (opens in a new tab)\"><span class=\"tk-ico\" aria-hidden=\"true\"><svg viewBox=\"0 0 16 16\"><path d=\"M3 1.5v13l11-6.5z\" fill=\"currentColor\"/></svg></span><span class=\"tk-txt\"><b>Speaker: Dr. Joy</b><small>Instagram · @dr.joy_official</small></span><span class=\"tk-go\" aria-hidden=\"true\">↗</span></a></div></div><div class=\"vgroup\"><h3>Two Forking Good × Draavin Canteen</h3><p class=\"vsub\">Icons of Onam and the Onam Sadhya</p><div class=\"tracks\"><a class=\"track\" href=\"https://www.instagram.com/p/Dcfq7ZPzVan/\" target=\"_blank\" rel=\"noopener noreferrer\" aria-label=\"Chef Ruchira Hoon, Instagram reel (opens in a new tab)\"><span class=\"tk-ico\" aria-hidden=\"true\"><svg viewBox=\"0 0 16 16\"><path d=\"M3 1.5v13l11-6.5z\" fill=\"currentColor\"/></svg></span><span class=\"tk-txt\"><b>Chef Ruchira Hoon</b><small>Instagram reel</small></span><span class=\"tk-go\" aria-hidden=\"true\">↗</span></a><a class=\"track\" href=\"https://www.instagram.com/p/DcdQBZAjixl/?img_index=1\" target=\"_blank\" rel=\"noopener noreferrer\" aria-label=\"Onam post, Instagram carousel (opens in a new tab)\"><span class=\"tk-ico\" aria-hidden=\"true\"><svg viewBox=\"0 0 16 16\"><path d=\"M3 1.5v13l11-6.5z\" fill=\"currentColor\"/></svg></span><span class=\"tk-txt\"><b>Onam post</b><small>Instagram carousel</small></span><span class=\"tk-go\" aria-hidden=\"true\">↗</span></a></div></div><div class=\"vgroup\"><h3>Layers</h3><p class=\"vsub\">Brand video for the Anarc smartwatch redesign</p><div class=\"tracks\"><a class=\"track\" href=\"https://www.instagram.com/p/DTsrZhAk76U/\" target=\"_blank\" rel=\"noopener noreferrer\" aria-label=\"Layers shoot, Instagram reel (opens in a new tab)\"><span class=\"tk-ico\" aria-hidden=\"true\"><svg viewBox=\"0 0 16 16\"><path d=\"M3 1.5v13l11-6.5z\" fill=\"currentColor\"/></svg></span><span class=\"tk-txt\"><b>Layers shoot</b><small>Instagram reel</small></span><span class=\"tk-go\" aria-hidden=\"true\">↗</span></a></div></div><div class=\"vgroup\"><h3>Play Haus</h3><p class=\"vsub\">Reels for a Delhi sporting club</p><div class=\"tracks\"><a class=\"track\" href=\"https://www.instagram.com/p/DVnqTsOgWn4/\" target=\"_blank\" rel=\"noopener noreferrer\" aria-label=\"Play Haus reel 1, Instagram reel (opens in a new tab)\"><span class=\"tk-ico\" aria-hidden=\"true\"><svg viewBox=\"0 0 16 16\"><path d=\"M3 1.5v13l11-6.5z\" fill=\"currentColor\"/></svg></span><span class=\"tk-txt\"><b>Play Haus reel 1</b><small>Instagram reel</small></span><span class=\"tk-go\" aria-hidden=\"true\">↗</span></a><a class=\"track\" href=\"https://www.instagram.com/p/DU2cAlxkSEF/\" target=\"_blank\" rel=\"noopener noreferrer\" aria-label=\"Play Haus reel 2, Instagram reel (opens in a new tab)\"><span class=\"tk-ico\" aria-hidden=\"true\"><svg viewBox=\"0 0 16 16\"><path d=\"M3 1.5v13l11-6.5z\" fill=\"currentColor\"/></svg></span><span class=\"tk-txt\"><b>Play Haus reel 2</b><small>Instagram reel</small></span><span class=\"tk-go\" aria-hidden=\"true\">↗</span></a></div></div><div class=\"vgroup\"><h3>College projects</h3><p class=\"vsub\">NIFT New Delhi</p><div class=\"tracks\"><a class=\"track\" href=\"https://drive.google.com/drive/folders/1gimLoRdNh8Y0HIjJt5tAYYkg_PoABn8S\" target=\"_blank\" rel=\"noopener noreferrer\" aria-label=\"Haute Couture, documentary, Google Drive folder (opens in a new tab)\"><span class=\"tk-ico\" aria-hidden=\"true\"><svg viewBox=\"0 0 16 16\"><path d=\"M3 1.5v13l11-6.5z\" fill=\"currentColor\"/></svg></span><span class=\"tk-txt\"><b>Haute Couture, documentary</b><small>Google Drive folder</small></span><span class=\"tk-go\" aria-hidden=\"true\">↗</span></a><a class=\"track\" href=\"https://www.behance.net/gallery/224786475/THE-MANGO-HEIST-Mockumentary\" target=\"_blank\" rel=\"noopener noreferrer\" aria-label=\"The Mango Heist, mockumentary, Behance case study (opens in a new tab)\"><span class=\"tk-ico\" aria-hidden=\"true\"><svg viewBox=\"0 0 16 16\"><path d=\"M3 1.5v13l11-6.5z\" fill=\"currentColor\"/></svg></span><span class=\"tk-txt\"><b>The Mango Heist, mockumentary</b><small>Behance case study</small></span><span class=\"tk-go\" aria-hidden=\"true\">↗</span></a></div></div></div></section>", "boardsTitle": "The reel, page by page", "boardsSub": "Twenty-two pages: podcast and interview stills, colour grades, Onam, brand reels and the college films.", "boards": [["assets/videography/vg-01.webp", 900, "JoyScore Instagram profile, the client for the podcast, interview and reels"], ["assets/videography/vg-02.webp", 900, "Page of links to the JoyScore reels, interview, teaser and podcast, with the host Prateek and the speaker Dr. Joy"], ["assets/videography/vg-03.webp", 900, "Podcast set with Dr. Joy and the host seated in armchairs facing each other, microphones in front and a plant between them"], ["assets/videography/vg-04.webp", 900, "Dr. J interviewed in a second studio setup, with a warm lamp, shelves and plants"], ["assets/videography/vg-05.webp", 900, "Four employee testimonials of JoyScore staff, each shot outdoors in a park"], ["assets/videography/vg-06.webp", 900, "Colour grade comparison of the Dr. Joy interviews in two studio setups, ungraded on the left and graded on the right"], ["assets/videography/vg-07.webp", 900, "Colour grade comparison of outdoor interview frames, ungraded on the left and graded on the right"], ["assets/videography/vg-08.webp", 900, "Colour grade comparison of a testimonial with a name title and a close portrait by a window, before and after"], ["assets/videography/vg-09.webp", 900, "Two Forking Good Instagram profile, the client for the Onam content"], ["assets/videography/vg-10.webp", 900, "Chef Ruchira Hoon interview reel and the Icons of Onam posts with Draavin Canteen and Two Forking Good branding"], ["assets/videography/vg-11.webp", 900, "Onam Sadhya carousels: Banana Leaves and Vegetables, chopped fresh for the Sadhya"], ["assets/videography/vg-12.webp", 900, "Four Onam photographs: menu cards on banana leaves, serving pots and a laid Sadhya table"], ["assets/videography/vg-13.webp", 900, "Four Onam detail photographs: a name card, jasmine garlands and flower rangoli"], ["assets/videography/vg-14.webp", 900, "A Sadhya table in use, jasmine in a steel bowl and a Draavin Canteen uniform detail"], ["assets/videography/vg-15.webp", 900, "Layers Instagram profile, the client for the brand video"], ["assets/videography/vg-16.webp", 900, "Layers shoot reel: We Redesigned ANARC in the Colors of the Year"], ["assets/videography/vg-17.webp", 900, "Play Haus sporting club Instagram profile, the client for the sports reels"], ["assets/videography/vg-18.webp", 900, "Two Play Haus reels shot on the turf"], ["assets/videography/vg-19.webp", 900, "NIFT New Delhi Instagram profile, for the college projects"], ["assets/videography/vg-20.webp", 900, "Haute Couture documentary stills: students at sewing machines, interviews with students and faculty, and close shots"], ["assets/videography/vg-21.webp", 900, "Haute Couture b-roll: stitching, sewing machine detail, mannequins, sketching on a tablet, tape measures and pattern making"], ["assets/videography/vg-22.webp", 900, "The Mango Heist mockumentary stills and end credits"]], "link": ["Watch the podcast", "https://www.youtube.com/watch?v=KiM6xgwTIks&list=PLVLEOZYPl-iuAG-uZPvXb_NonUPldaBll&index=8"], "barLink": "Watch the podcast"};
 function renderCase(c){
   if(c.film) return renderFilm(c); if(c.hub) return renderHub(c);
   return `<div class="case-bar"><button class="back" type="button" data-case-back>${backArrow}Back to work</button><strong>${esc(c.title)}</strong>${c.link?`<a class="btn-sun" href="${c.link[1]}" target="_blank" rel="noopener">${esc(c.barLink||c.link[0])}</a>`:''}</div>
